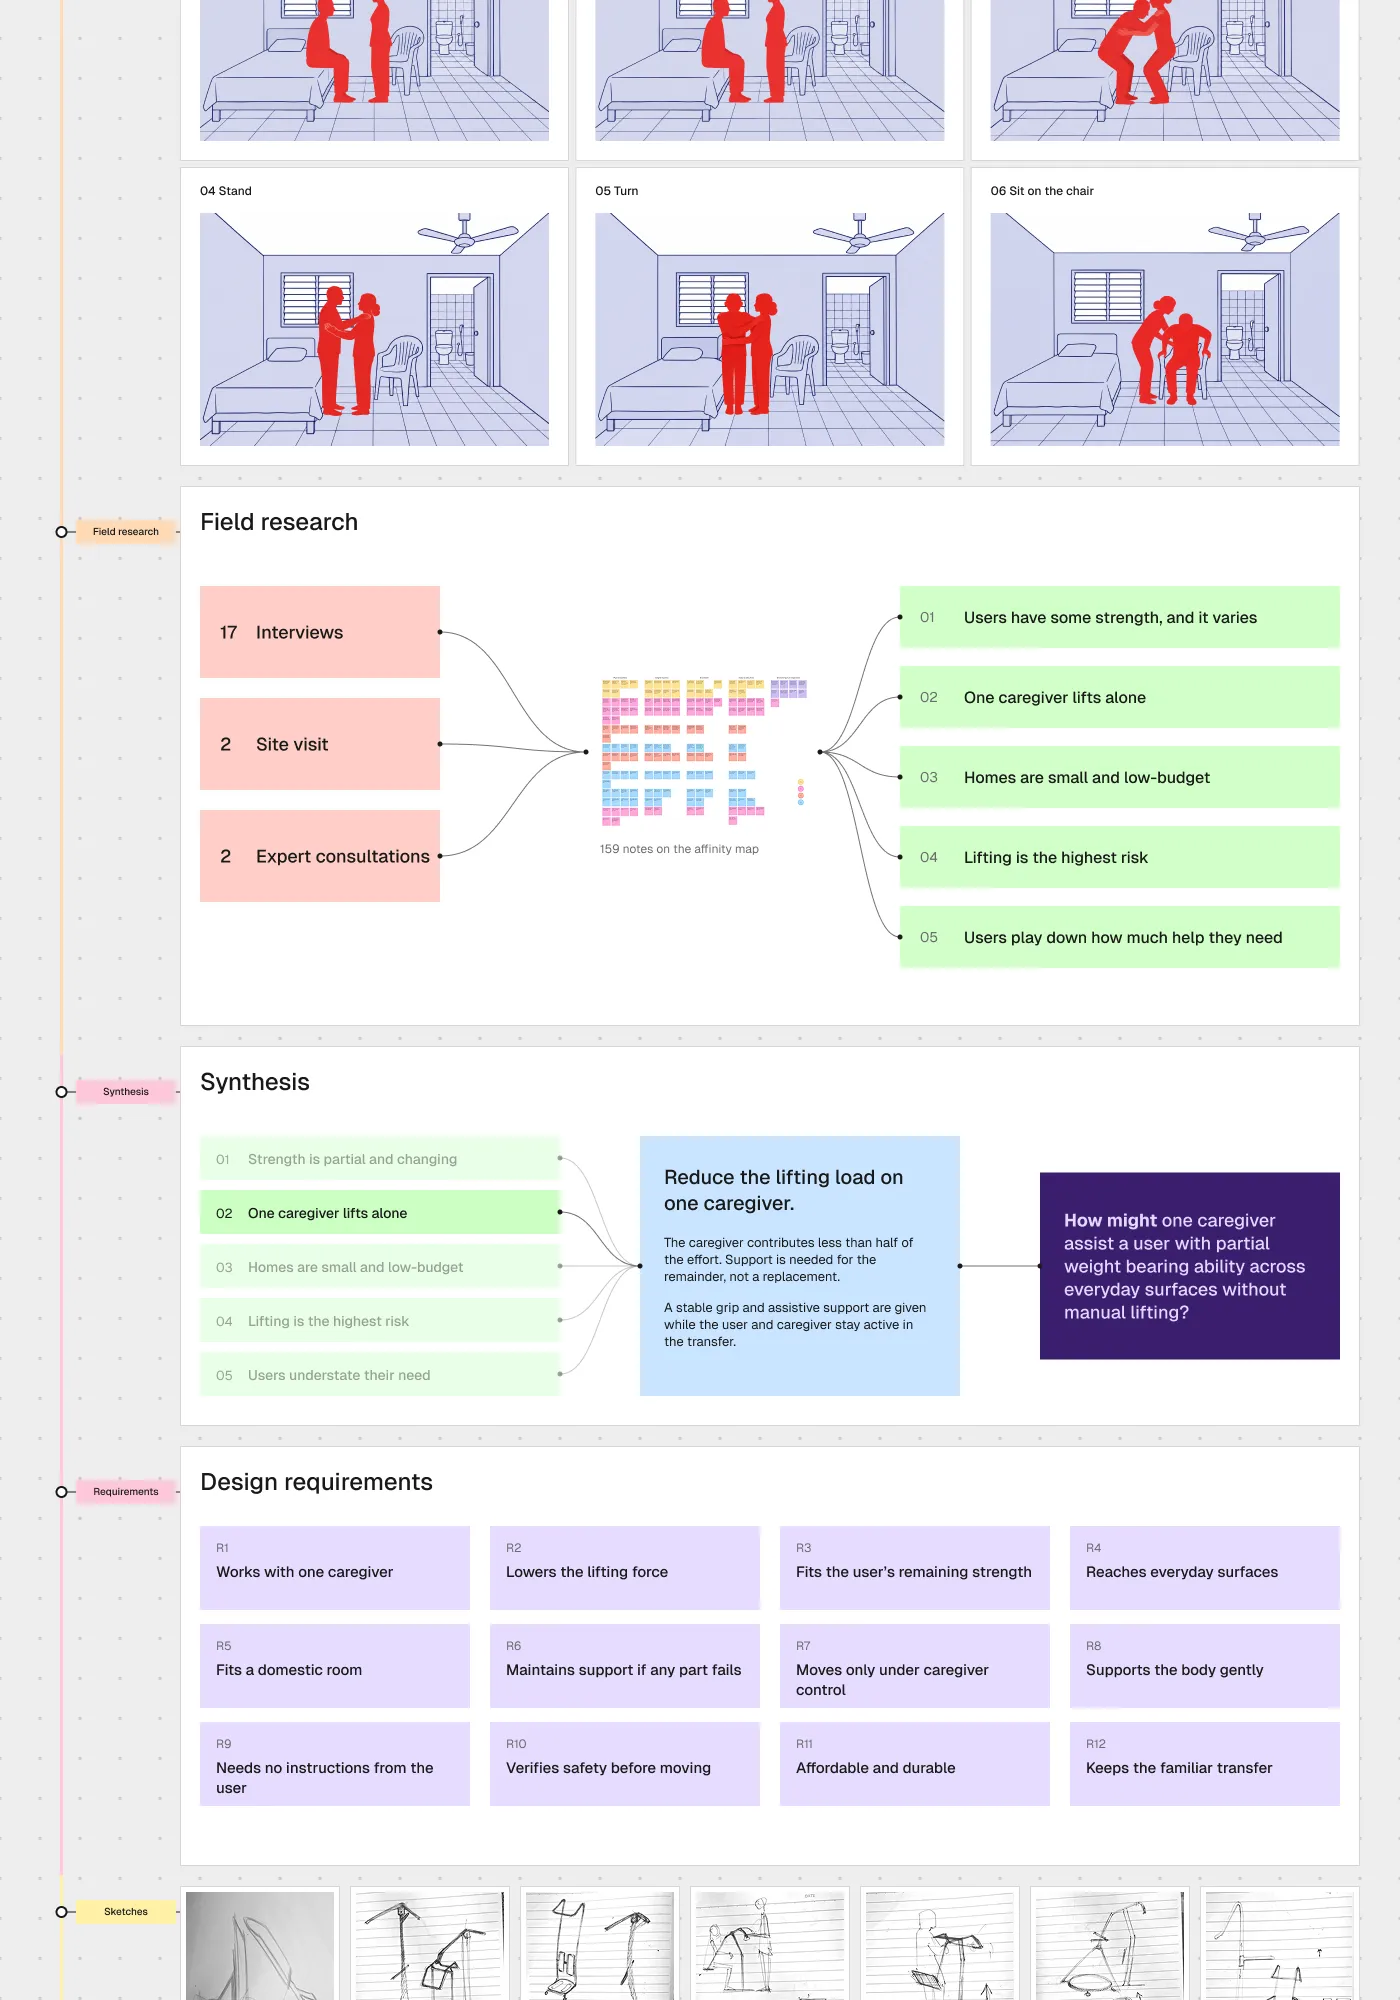
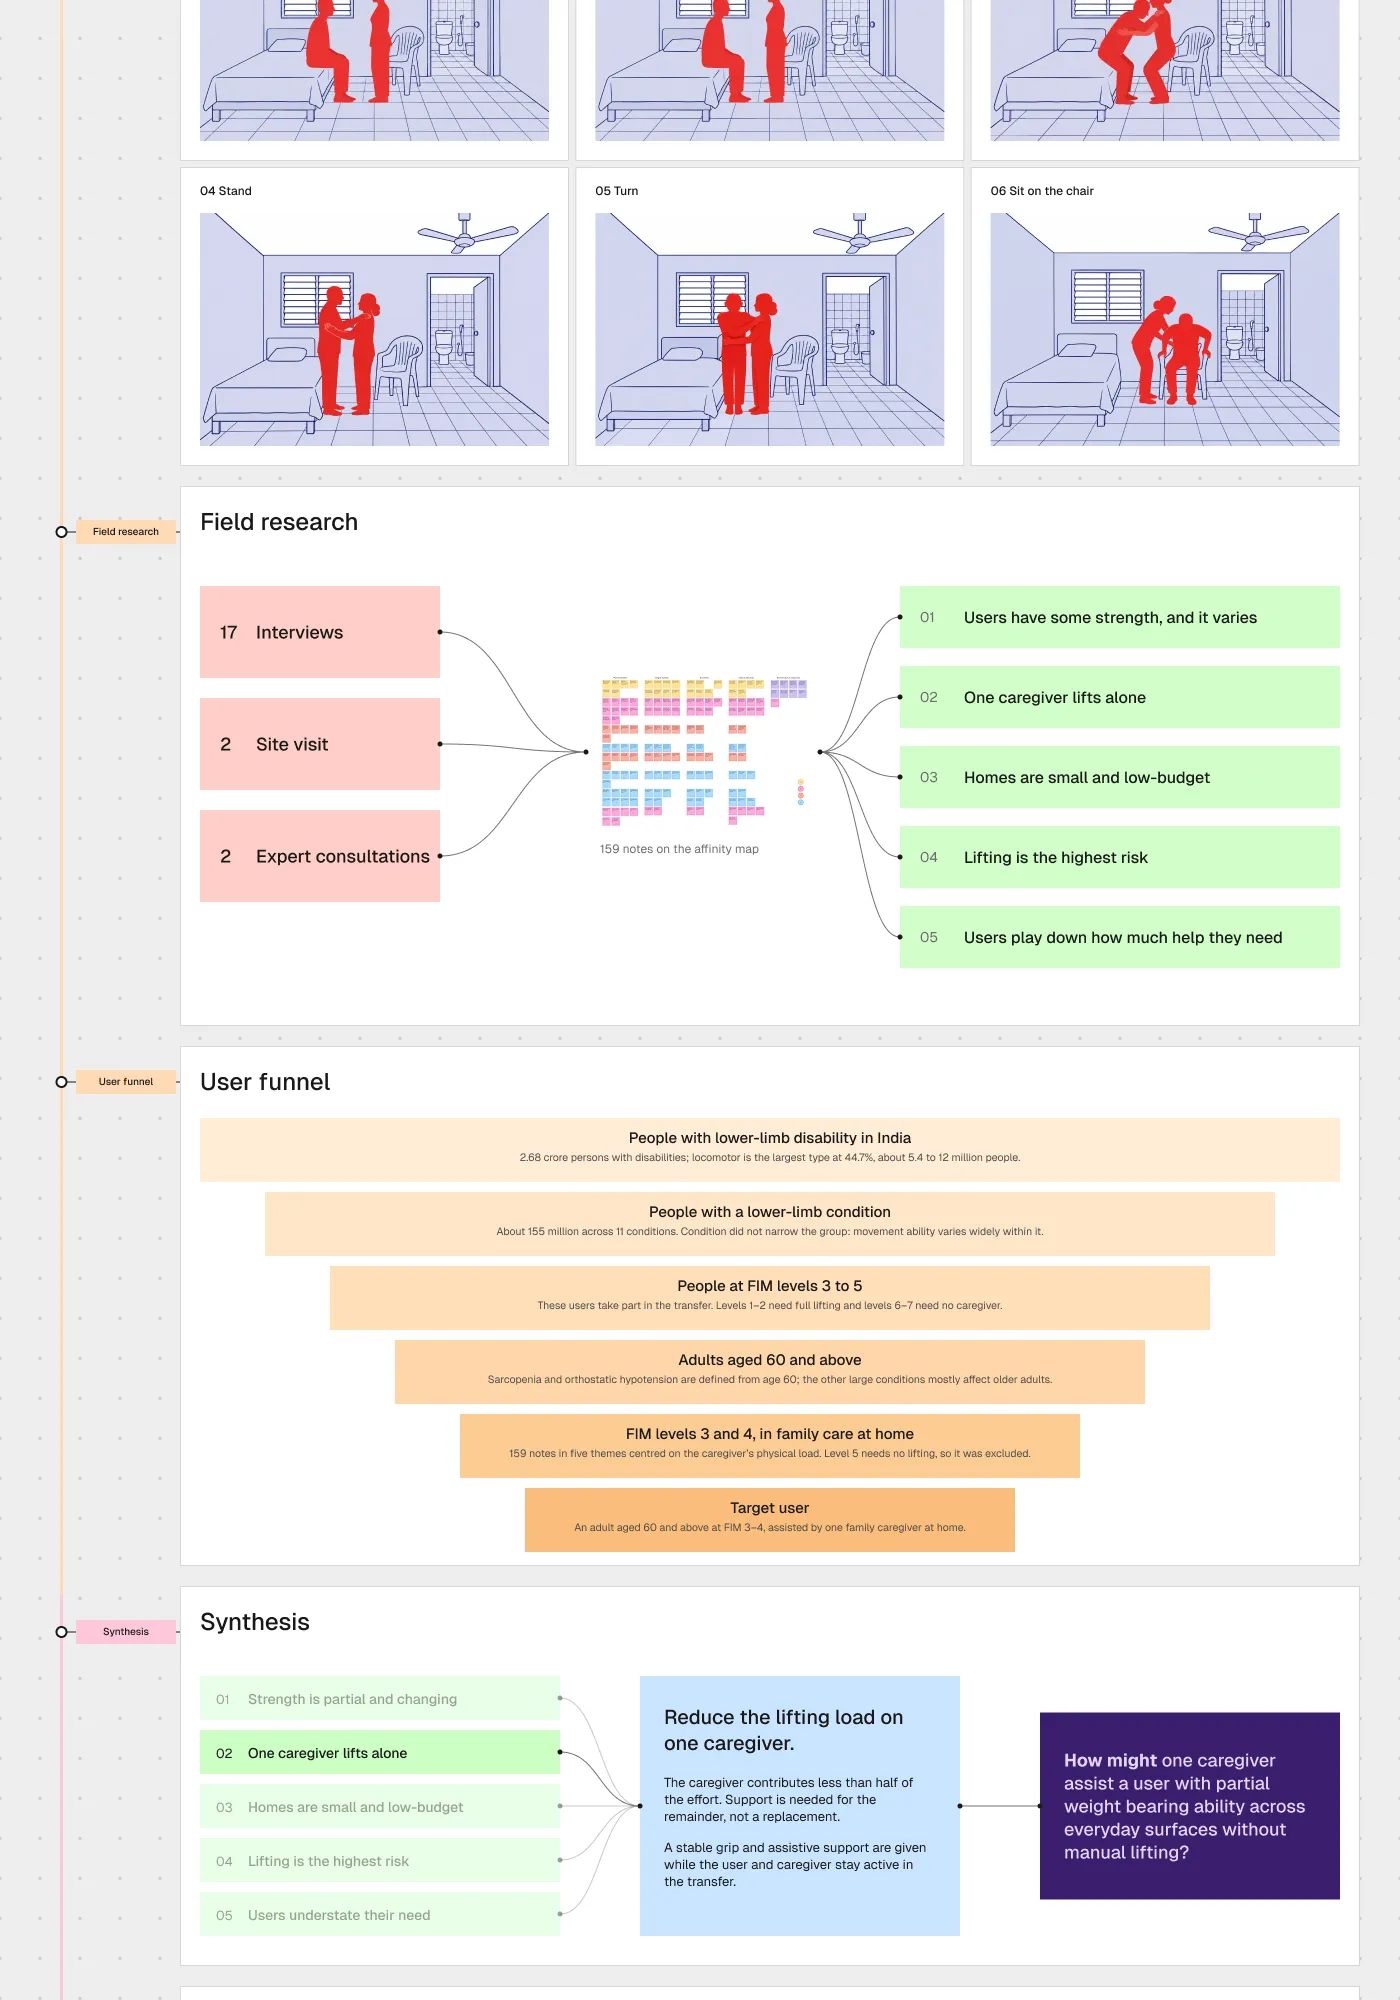
Updated TCP board

Changed region(s): [[0.0307, 0.527, 0.9829, 1.0]]

diff --git a/js/assets.generated.js b/js/assets.generated.js
@@ -393,7 +393,7 @@ window.ASSETS = {
     "cover": "assets/web/patient-transfers/cover.webp?v=f207e11a",
     "slides": [
       {
-        "src": "assets/web/patient-transfers/slide-01.webp?v=5344b288",
+        "src": "assets/web/patient-transfers/slide-01.webp?v=34416ecf",
         "w": 1400,
         "h": 2000,
         "part": 1
@@ -405,33 +405,33 @@ window.ASSETS = {
         "part": 1
       },
       {
-        "src": "assets/web/patient-transfers/slide-03.webp?v=a6753769",
+        "src": "assets/web/patient-transfers/slide-03.webp?v=b9b51d21",
         "w": 1400,
         "h": 2000,
         "part": 1
       },
       {
-        "src": "assets/web/patient-transfers/slide-04.webp?v=54657ded",
+        "src": "assets/web/patient-transfers/slide-04.webp?v=6dbdb23b",
         "w": 1400,
         "h": 2000,
         "part": 1
       },
       {
-        "src": "assets/web/patient-transfers/slide-05.webp?v=2b9505fd",
+        "src": "assets/web/patient-transfers/slide-05.webp?v=6d35b261",
         "w": 1400,
         "h": 2000,
         "part": 1
       },
       {
-        "src": "assets/web/patient-transfers/slide-06.webp?v=7d106eeb",
+        "src": "assets/web/patient-transfers/slide-06.webp?v=78d17c94",
         "w": 1400,
         "h": 2000,
         "part": 1
       },
       {
-        "src": "assets/web/patient-transfers/slide-07.webp?v=4de4628d",
+        "src": "assets/web/patient-transfers/slide-07.webp?v=7615112f",
         "w": 1400,
-        "h": 474,
+        "h": 1014,
         "part": 1
       }
     ],
